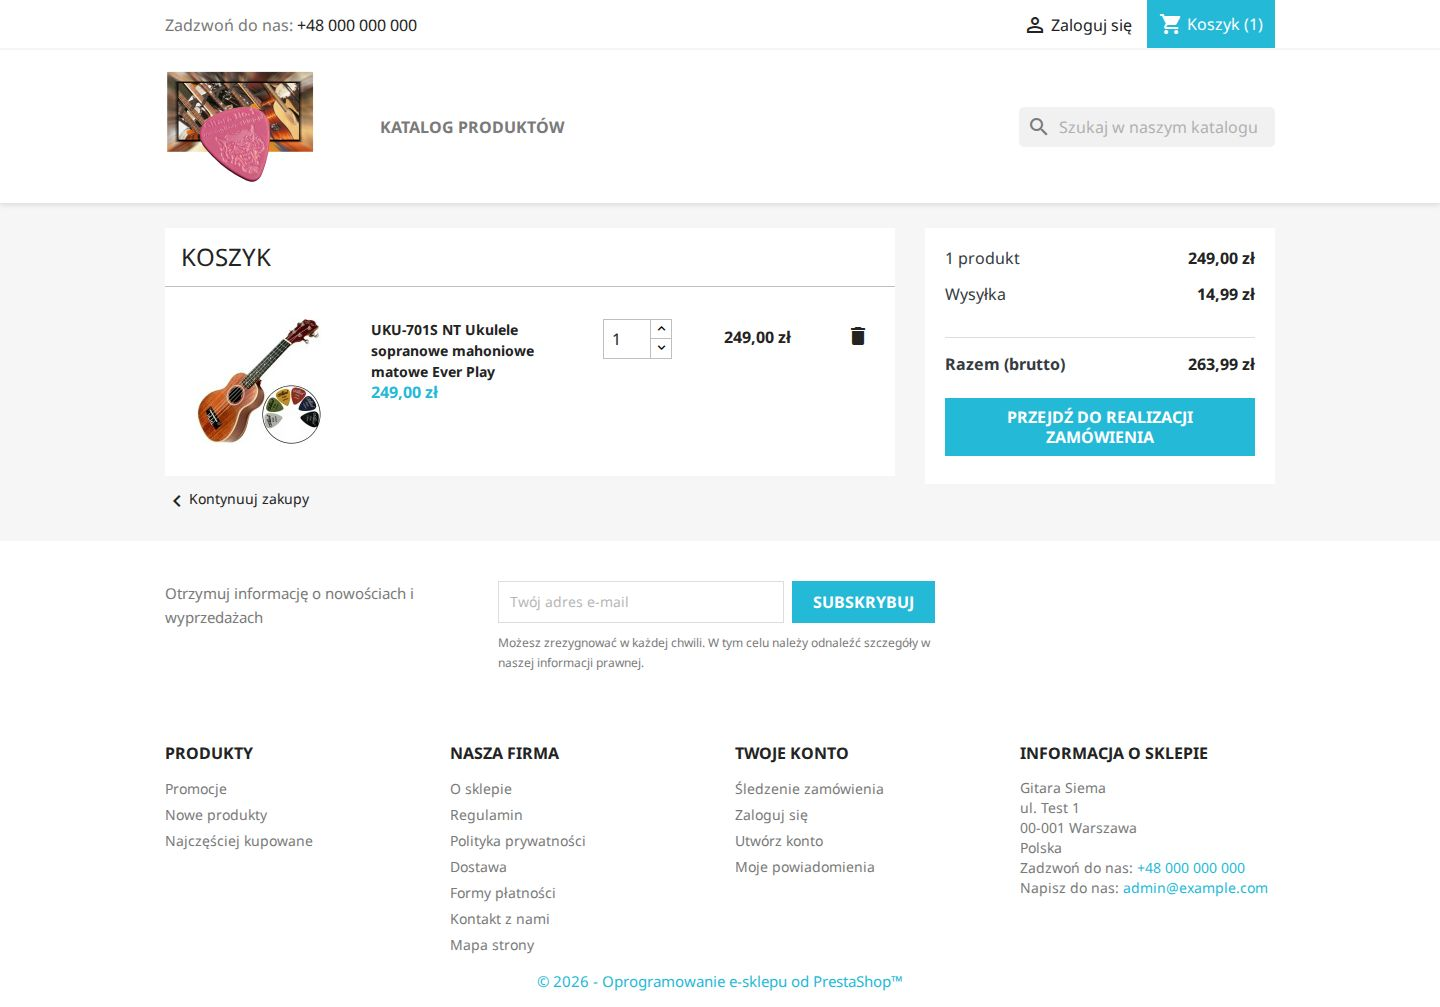
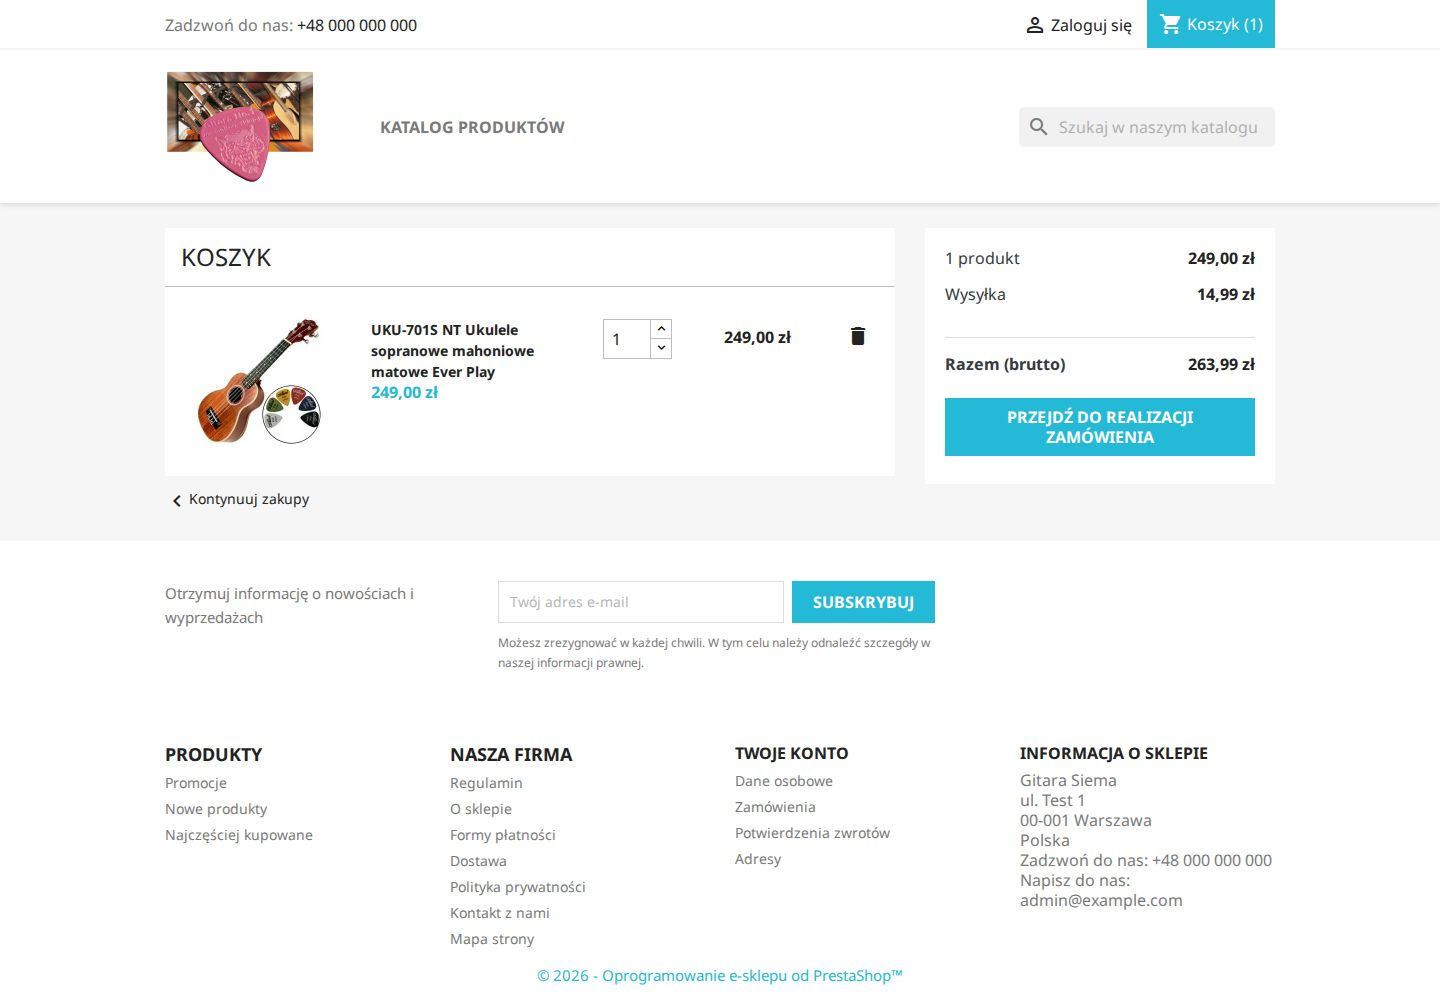
poprawki+katalog

diff --git a/shop/themes/gitara/assets/css/custom.css b/shop/themes/gitara/assets/css/custom.css
@@ -147,3 +147,82 @@ body {
 #wrapper .top-menu a[data-depth="0"] {
   text-transform: uppercase;
 }
+
+/* ---- 7. Katalog produktów (kategoria główna, /2-katalog-produktow-gitara-no1) ----
+ * Nazwa i obrazek kategorii są w deploy/config/uklad.php (K0). W źródle nie ma bloku „Podkategorie”
+ * (są w drzewie w lewej kolumnie), więc tu go ukrywamy. */
+.category-id-2 #subcategories {
+  display: none;
+}
+
+/* Nagłówek kategorii i tytuł drzewa kategorii w rozmiarach z Classic 1.7, jak w źródle na wszystkich
+ * stronach kategorii (Classic 2.x: 32 px i 24 px, źródło: 22 px i 15 px pogrubione). Obrazek kategorii
+ * przy prawej krawędzi także wtedy, gdy kategoria nie ma opisu (w źródle spycha go opis). */
+.block-category .h1 {
+  font-size: 1.375rem;
+  line-height: 1.1;
+}
+
+.block-category .category-cover {
+  margin-left: auto;
+}
+
+.block-categories .category-top-menu > li > a.h6 {
+  font-size: 0.9375rem;
+  font-weight: 700;
+}
+
+/* Strona główna: cień pod kafelkami „Popularnych produktów”, taki jak w źródle (Classic 1.7). */
+#index .product-miniature .thumbnail-container {
+  box-shadow: 2px 2px 8px 0 rgba(0, 0, 0, 0.2);
+}
+
+/* Tytuły sekcji z produktami („Popularne produkty”) pogrubione, jak w źródle (Classic 2.x: 500, 21 px).
+ * Selektory jak w theme.css z Classic, bo ta sama specyficzność wygrywa dzięki kolejności plików. */
+#products .products-section-title,
+.featured-products .products-section-title,
+.product-accessories .products-section-title {
+  font-size: 1.25rem;
+  font-weight: 700;
+}
+
+/* ---- 8. Stopka jak w źródle (Classic 1.7) ----
+ * Linki w „Twoje konto” są w szablonie modules/ps_customeraccountlinks (kopia z Classic), a kolejność
+ * stron w „Nasza firma” w deploy/config/cms.php. Tu tylko rozmiary i kolory. */
+
+/* Tytuły bloków z linkami („Produkty”, „Nasza firma”): w źródle 18 px, „Twoje konto” i „Informacja
+ * o sklepie” zostają 16 px. */
+@media (min-width: 768px) {
+  .footer-container .links .col-md-6.wrapper > .h3 {
+    font-size: 1.125rem;
+  }
+}
+
+/* „Informacja o sklepie”: tekst 16 px, telefon i e-mail szare jak reszta tekstu (Classic 2.x: 14 px,
+ * linki w kolorze głównym). Linki tel: i mailto: zostają klikalne. */
+.footer-container .block-contact {
+  font-size: 1rem;
+}
+
+.footer-container .block-contact a {
+  color: inherit;
+}
+
+.footer-container .block-contact a:hover {
+  color: #24b9d7;
+}
+
+/* Odstępy jak w źródle: stopka 20 px od góry (+ 20 px marginesu), tytuły bloków 8 px nad linkami
+ * (Classic 2.x: 40 px i 16 px). Na telefonie bloki są zwijane i zostają bez zmian. */
+@media (min-width: 768px) {
+  .footer-container {
+    margin-top: 1.25rem;
+    padding-top: 1.25rem;
+  }
+
+  .footer-container .links .h3,
+  .footer-container .myaccount-title,
+  .footer-container .block-contact-title {
+    margin-bottom: 0.5rem;
+  }
+}

diff --git a/deploy/config/uklad.php b/deploy/config/uklad.php
@@ -27,11 +27,66 @@ function ustaw(string $klucz, $wartosc): void
     }
 }
 
+// Obrazy sklepu leżą w motywie (shop/themes/gitara/assets), który init.sh kopiuje do sklepu.
+// PrestaShop szuka ich w img/ albo w katalogu modułu, więc kopiujemy je tam, tylko gdy plik się zmienił.
+// Zwraca true, gdy skopiował.
+function skopiuj(string $skad, string $dokad): bool
+{
+    if (!is_file($skad)) {
+        throw new RuntimeException("Brak pliku $skad");
+    }
+    if (is_file($dokad) && md5_file($skad) === md5_file($dokad)) {
+        return false;
+    }
+    if (!copy($skad, $dokad)) {
+        throw new RuntimeException("Nie udalo sie skopiowac $skad do $dokad");
+    }
+    chown($dokad, 'www-data');
+    chgrp($dokad, 'www-data');
+    return true;
+}
+
+$obrazy = _PS_ALL_THEMES_DIR_ . 'gitara/assets/';
+$idKategoriiGlownej = (int) Configuration::get('PS_HOME_CATEGORY');
+
+// K0: kategoria główna („Katalog produktów” w menu) jak w źródle: nazwa „Katalog produktów Gitara No.1”,
+// adres /2-katalog-produktow-gitara-no1 i obrazek. Nazwa jest w nagłówku tej strony i w tytule drzewa
+// kategorii w lewej kolumnie. Okruszki jej nie pokazują (kategoria główna jest pomijana), a import
+// (deploy/import/import.py) jej nie zmienia. Musi być przed N1, bo adres w menu zależy od link_rewrite.
+$kategoriaGlowna = new Category($idKategoriiGlownej);
+$zmiana = false;
+foreach (Language::getIDs(false) as $idJezyka) {
+    foreach (['name' => 'Katalog produktów Gitara No.1', 'link_rewrite' => 'katalog-produktow-gitara-no1'] as $pole => $wartosc) {
+        if (($kategoriaGlowna->{$pole}[$idJezyka] ?? '') !== $wartosc) {
+            $kategoriaGlowna->{$pole}[$idJezyka] = $wartosc;
+            $zmiana = true;
+        }
+    }
+}
+if ($zmiana && !$kategoriaGlowna->update()) {
+    throw new RuntimeException('Nie udalo sie zmienic nazwy kategorii glownej');
+}
+
+// Obrazek kategorii: oryginał img/c/<id>.jpg i miniatury dla typów z zakresu kategorii (jak przy
+// wgraniu w panelu). Plik ma już wymiary category_default (141 × 180), który pokazuje nagłówek kategorii.
+$plikKategorii = _PS_CAT_IMG_DIR_ . $idKategoriiGlownej . '.jpg';
+$nowyObrazek = skopiuj($obrazy . 'katalog-produktow.jpg', $plikKategorii);
+foreach (ImageType::getImagesTypes('categories') as $typ) {
+    $miniatura = _PS_CAT_IMG_DIR_ . $idKategoriiGlownej . '-' . $typ['name'] . '.jpg';
+    if (!$nowyObrazek && is_file($miniatura)) {
+        continue;
+    }
+    if (!ImageManager::resize($plikKategorii, $miniatura, (int) $typ['width'], (int) $typ['height'], 'jpg')) {
+        throw new RuntimeException("Nie udalo sie zrobic miniatury $miniatura");
+    }
+    chown($miniatura, 'www-data');
+    chgrp($miniatura, 'www-data');
+}
+
 // N1: w menu górnym jedna pozycja „Katalog produktów” prowadząca do kategorii głównej, jak w źródle.
 // Wyszukiwarka mieści się wtedy w tym samym wierszu bez zmian w CSS. Uwaga: import (deploy/import/import.py,
 // setup_ps_main_menu) wpisuje do menu kategorie główne, więc po ponownym imporcie trzeba uruchomić make init.
 $etykieta = 'Katalog produktów';
-$idKategoriiGlownej = (int) Configuration::get('PS_HOME_CATEGORY');
 $etykiety = [];
 $adresy = [];
 foreach (Language::getIDs(false) as $idJezyka) {
@@ -75,26 +130,6 @@ $wishlist = Module::getInstanceByName('blockwishlist');
 if ($wishlist && Module::isEnabled('blockwishlist') && !$wishlist->disable()) {
     throw new RuntimeException('Nie udalo sie wylaczyc blockwishlist');
 }
-
-// Obrazy sklepu leżą w motywie (shop/themes/gitara/assets), który init.sh kopiuje do sklepu.
-// PrestaShop szuka logo w img/, a obrazu ps_banner w katalogu modułu, więc kopiujemy je tam,
-// tylko gdy plik się zmienił.
-function skopiuj(string $skad, string $dokad): void
-{
-    if (!is_file($skad)) {
-        throw new RuntimeException("Brak pliku $skad");
-    }
-    if (is_file($dokad) && md5_file($skad) === md5_file($dokad)) {
-        return;
-    }
-    if (!copy($skad, $dokad)) {
-        throw new RuntimeException("Nie udalo sie skopiowac $skad do $dokad");
-    }
-    chown($dokad, 'www-data');
-    chgrp($dokad, 'www-data');
-}
-
-$obrazy = _PS_ALL_THEMES_DIR_ . 'gitara/assets/';
 
 // Logo sklepu zamiast „my store” (roznice.md, sekcja 8). Maile i faktury biorą PS_LOGO, gdy nie mają własnego.
 $plikLogo = 'gitara-logo.png';
@@ -209,6 +244,30 @@ if ($naGlownej === 0) {
     }
     if (!$wybrane) {
         echo "UWAGA: brak produktów do sekcji „Popularne produkty” (czy import był uruchomiony?)\n";
+    }
+}
+
+// S1: link do korekt płatności w stopce i na stronie „Moje konto” nazwany jak w źródle. PrestaShop 8
+// tłumaczy „Credit slips” jako „Potwierdzenia zwrotów”, a źródło (1.7) jako „Moje pokwitowania - korekty
+// płatności”. Nadpisanie jak z panelu (Międzynarodowe > Tłumaczenia): wiersz w ps_translation bez motywu,
+// w obu domenach, w których jest ten napis (moduł: stopka gościa, motyw: stopka klienta i „Moje konto”).
+// Katalog tłumaczeń jest w cache, więc zmiana jest widoczna po wyczyszczeniu cache (robi to make init).
+$idPolskiego = (int) Language::getIdByIso('pl');
+$tlumaczenia = [
+    ['Credit slips', 'ModulesCustomeraccountlinksAdmin', 'Moje pokwitowania - korekty płatności'],
+    ['Credit slips', 'ShopThemeCustomeraccount', 'Moje pokwitowania - korekty płatności'],
+];
+foreach ($tlumaczenia as [$klucz, $domena, $tekst]) {
+    $warunek = 'id_lang = ' . $idPolskiego . ' AND `key` = "' . pSQL($klucz) . '" AND domain = "' . pSQL($domena) . '" AND theme IS NULL';
+    $wiersz = $db->getRow('SELECT id_translation, translation FROM ' . _DB_PREFIX_ . 'translation WHERE ' . $warunek);
+    if ($wiersz && $wiersz['translation'] === $tekst) {
+        continue;
+    }
+    $zapisano = $wiersz
+        ? $db->update('translation', ['translation' => pSQL($tekst)], 'id_translation = ' . (int) $wiersz['id_translation'])
+        : $db->insert('translation', ['id_lang' => $idPolskiego, 'key' => pSQL($klucz), 'translation' => pSQL($tekst), 'domain' => pSQL($domena)]);
+    if (!$zapisano) {
+        throw new RuntimeException("Nie udalo sie zapisac tlumaczenia $klucz ($domena)");
     }
 }
 

diff --git a/deploy/config/cms.php b/deploy/config/cms.php
@@ -9,14 +9,9 @@ const CONTENT_DIR = '/opt/prestashop-config/cms';
 const CMS_CATEGORY_ID = 1;
 const FOOTER_HOOK = 'displayFooter';
 
-// W tej kolejności strony będą w stopce. 'demo' to strona z instalatora do przerobienia.
+// W tej kolejności strony będą w stopce: najpierw jak w źródle (regulamin, o sklepie, płatności), potem
+// dostawa i polityka prywatności, których źródło nie ma w stopce. 'demo' to strona z instalatora do przerobienia.
 $pages = [
-    [
-        'link_rewrite' => 'o-sklepie',
-        'demo' => 'about-us',
-        'meta_title' => 'O sklepie',
-        'meta_description' => SHOP_NAME . ' – sklep muzyczny z ukulele, syntezatorami, perkusją, harmonijkami ustnymi i przewodami audio.',
-    ],
     [
         'link_rewrite' => 'regulamin',
         'demo' => 'terms-and-conditions-of-use',
@@ -24,10 +19,16 @@ $pages = [
         'meta_description' => 'Regulamin sklepu ' . SHOP_NAME . ': zamówienia, ceny, płatności, dostawa, odstąpienie od umowy i reklamacje.',
     ],
     [
-        'link_rewrite' => 'polityka-prywatnosci',
-        'demo' => null,
-        'meta_title' => 'Polityka prywatności',
-        'meta_description' => 'Jakie dane zbiera sklep ' . SHOP_NAME . ', w jakim celu, jakie prawa ma klient i jakich plików cookies używamy.',
+        'link_rewrite' => 'o-sklepie',
+        'demo' => 'about-us',
+        'meta_title' => 'O sklepie',
+        'meta_description' => SHOP_NAME . ' – sklep muzyczny z ukulele, syntezatorami, perkusją, harmonijkami ustnymi i przewodami audio.',
+    ],
+    [
+        'link_rewrite' => 'formy-platnosci',
+        'demo' => 'secure-payment',
+        'meta_title' => 'Formy płatności',
+        'meta_description' => 'Przelew tradycyjny lub płatność przy odbiorze. Faktura VAT do każdego zamówienia.',
     ],
     [
         'link_rewrite' => 'dostawa',
@@ -36,10 +37,10 @@ $pages = [
         'meta_description' => 'Kurier za 14,99 zł i kurier ekspres za 24,99 zł. Darmowa dostawa powyżej 2000 zł brutto, tylko w Polsce.',
     ],
     [
-        'link_rewrite' => 'formy-platnosci',
-        'demo' => 'secure-payment',
-        'meta_title' => 'Formy płatności',
-        'meta_description' => 'Przelew tradycyjny lub płatność przy odbiorze. Faktura VAT do każdego zamówienia.',
+        'link_rewrite' => 'polityka-prywatnosci',
+        'demo' => null,
+        'meta_title' => 'Polityka prywatności',
+        'meta_description' => 'Jakie dane zbiera sklep ' . SHOP_NAME . ', w jakim celu, jakie prawa ma klient i jakich plików cookies używamy.',
     ],
 ];
 

diff --git a/docs/wyglad/roznice.md b/docs/wyglad/roznice.md
@@ -95,8 +95,10 @@ Decyzja należy do zespołu na planowaniu sprintu 3. Każdy wiersz z sekcji 1–
 
 ## BE-33: co zostało usunięte
 
-Zmiany są w dwóch miejscach. CSS jest w `shop/themes/gitara/assets/css/custom.css`, a ustawienia modułów
-w `deploy/config/uklad.php`, który uruchamia `make init`. Szablonów nie nadpisujemy.
+CSS jest w `shop/themes/gitara/assets/css/custom.css`, a ustawienia modułów w `deploy/config/uklad.php`
+i `deploy/config/cms.php`, które uruchamia `make init`. Jeden szablon jest nadpisany, bo linków w stopce nie da się
+zmienić CSS: `shop/themes/gitara/modules/ps_customeraccountlinks/ps_customeraccountlinks.tpl` (kopia z Classic
+w motywie potomnym, Classic bez zmian, wymóg D1).
 **Zrzuty:** `przed/` to stan przed BE-33, `nasz/` to stan po nim, `zrodlo/` to sklep źródłowy.
 
 Układy stron (lewa kolumna albo pełna szerokość) były już takie jak w źródle: kategorie, nowe produkty,
@@ -113,8 +115,11 @@ i lewej kolumny.
 | Kafelek | L4 | `blockwishlist` jest wyłączony, więc nie ma serduszka. Znaczek „Nowy” jest ukryty w CSS, bo `PS_NB_DAYS_NEW_PRODUCT` = 0 wyczyściłby stronę „Nowe produkty”. | konfiguracja i CSS |
 | Karta produktu | P1, P2, P3 | Bez bloku demo `blockreassurance` (także w koszyku, K2). Specyfikacja to pogrubione linie bez punktorów. Strona mieści się w 360 px. | CSS |
 | Stopka | S2 | Newsletter przy lewej krawędzi, z małym napisem. | CSS |
-| Strona główna | G1 | Pod sliderem „Popularne produkty” (8 produktów przypiętych do kategorii „Strona główna”, po 2 z pierwszych kategorii menu) z linkiem „Wszystkie produkty”, potem obraz sklepu z godzinami otwarcia (`ps_banner`, na telefonie ukryty jak w źródle) i tekst o sklepie z podpisem zespołu (`cms/strona-glowna.html`), a pod nim drugi raz menu z linkiem „Katalog produktów” (`ps_mainmenu`, tylko na komputerze, jak w źródle). „Nowe produkty”, „Promocje” i „Najczęściej kupowane” są odpięte od strony głównej. | konfiguracja i CSS |
+| Stopka | S1 | „Nasza firma”: najpierw Regulamin, O sklepie, Formy płatności jak w źródle, potem Dostawa i Polityka prywatności (strony wymagane u nas, w źródle ich nie ma), Kontakt, Mapa strony. „Twoje konto” dla gościa: Dane osobowe, Zamówienia, Korekty płatności, Adresy jak w źródle (każdy link prowadzi przez logowanie). Tytuły „Produkty” i „Nasza firma” 18 px, dane sklepu 16 px, telefon i e-mail szare, odstępy jak w źródle. Wszystkie linki zwracają 200 albo przekierowują na logowanie. | `cms.php`, szablon `modules/ps_customeraccountlinks` w motywie (kopia z Classic, zmieniona tylko gałąź gościa) i CSS |
+| Strona główna | G1 | Pod sliderem „Popularne produkty” (8 produktów przypiętych do kategorii „Strona główna”, po 2 z pierwszych kategorii menu) z linkiem „Wszystkie produkty”, potem obraz sklepu z godzinami otwarcia (`ps_banner`, na telefonie ukryty jak w źródle) i tekst o sklepie z podpisem zespołu (`cms/strona-glowna.html`), a pod nim drugi raz menu z linkiem „Katalog produktów” (`ps_mainmenu`, tylko na komputerze, jak w źródle). „Nowe produkty”, „Promocje” i „Najczęściej kupowane” są odpięte od strony głównej. Kafelki produktów mają cień jak w źródle. | konfiguracja i CSS |
 | Nagłówek | sekcja 8 | Logo sklepu zamiast „my store”. | konfiguracja |
+| Katalog produktów | K0 | Kategoria główna nazywa się „Katalog produktów Gitara No.1”, ma adres `/2-katalog-produktow-gitara-no1` (stary `/2-strona-glowna` przekierowuje) i obrazek z `shop/themes/gitara/assets/katalog-produktow.jpg`. Bez bloku „Podkategorie” na tej stronie. | konfiguracja i CSS |
+| Wszystkie kategorie | — | Tytuł w nagłówku kategorii 22 px, tytuł drzewa w lewej kolumnie 15 px pogrubiony (jak w Classic 1.7), obrazek kategorii przy prawej krawędzi. | CSS |
 | Cały sklep | — | Czcionka Noto Sans (jak w Classic z PrestaShop 1.7) zamiast Manrope. Pliki są w motywie (`assets/fonts`, licencja OFL), nie z Google Fonts. | CSS |
 
 Test e2e koszyka przechodzi teraz do kategorii linkiem „Katalog produktów” z nagłówka, a nie linkiem

diff --git a/docs/AI_LOG.md b/docs/AI_LOG.md
@@ -44,6 +44,7 @@ Dopisz nowy wiersz na końcu tabeli. Przykład:
 | 2026-11-14, Maria Rek | Claude Opus 5.5 w Claude Code | BE-30: Strony CMS i usunięcie treści demo | Treści stron O sklepie, Regulamin, Polityka prywatności, Dostawa i Formy płatności oraz krótki opis sklepu na stronę główną (pliki w `deploy/config/cms/`) | Brak błędów merytorycznych. Zmieniłam nazwę bloku w stopce na „Nasza firma” i usunęłam z regulaminu wzmiankę o zakupach jako gość. | Ceny, progi dostawy i dane sprzedawcy porównane z `carriers.php` i `payments.php`; po `make init` każda z 5 stron zwraca 200 i ma poprawne polskie znaki |
 | 2026-11-16, Aleksandra Wiśniewska | Claude Opus 5.5 w Claude Code (VS Code) | BE-26: motyw potomny Classic, zrzuty i lista różnic w wyglądzie | motyw `shop/themes/gitara` (`parent: classic`, `custom.css`), `deploy/config/theme.php` włączający go w `make init`, kopiowanie motywu w `init.sh`; skrypt Playwright `make wyglad` ze zrzutami sklepu źródłowego i naszego (1440 i 360 px) w `docs/wyglad/`; szkic listy różnic z szacunkami i propozycją zakresu (`docs/wyglad/roznice.md`); opis w README | produkt wybrany najpierw do koszyka był w źródle niedostępny, więc skrypt dostał zapasowy wybór pierwszego dostępnego produktu z kategorii; pierwsza wersja sekcji w README trafiła do rozdziału „Dane sklepu”; ręczne uruchomienie `theme.php` jako root po `make init` zostawiło cache roota i sklep zwracał 500 (w `make init` tego nie ma, bo cache jest odbudowywany jako `www-data` na końcu) | porównanie `ps_hook_module`, `ps_configuration`, `ps_image_type` i `ps_module_shop` przed i po włączeniu motywu: brak różnic; `make reset`, `make up`, `make init` na czystym środowisku: `Motyw (gitara): OK`, sklep ładuje `themes/gitara/assets/css/custom.css`, strony zwracają 200; `make wyglad` 4/4, ESLint i `tsc` bez błędów; różnice w `roznice.md` sprawdzone na zrzutach |
 | 2026-11-15, Tymon Dera | Claude Opus 5.5 w Claude Code CLI | BE-20: Idempotentność importu i raport z liczbą rekordów, zapytanie o sposób zliczania rekordów i sprawdzenie duplikatów w bazie | Sugestia na temat stworzeniu słownika z licznikiem dla każdego typu | Brak | Sprawdziłem poprawność zliczania z admin panelem prestashopa |
+| 2026-11-18, Aleksandra Wiśniewska | Claude Opus 5.5 w Claude Code (VS Code) | BE-33: układ sklepu jak w źródle | CSS w `custom.css`, skrypt PHP `deploy/config/uklad.php` (moduły, kategoria główna, logo, baner, tłumaczenie) i nadpisany szablon stopki w motywie potomnym | dwukrotne wczytanie klasy menu (`Cannot declare class`), rozciągnięty baner, za słabe selektory CSS dla pogrubienia | `make init`, zrzuty porównane ze źródłem, linki stopki zwracają 200, testy e2e 2/2 |
 
 ## Refleksja zespołu
 
